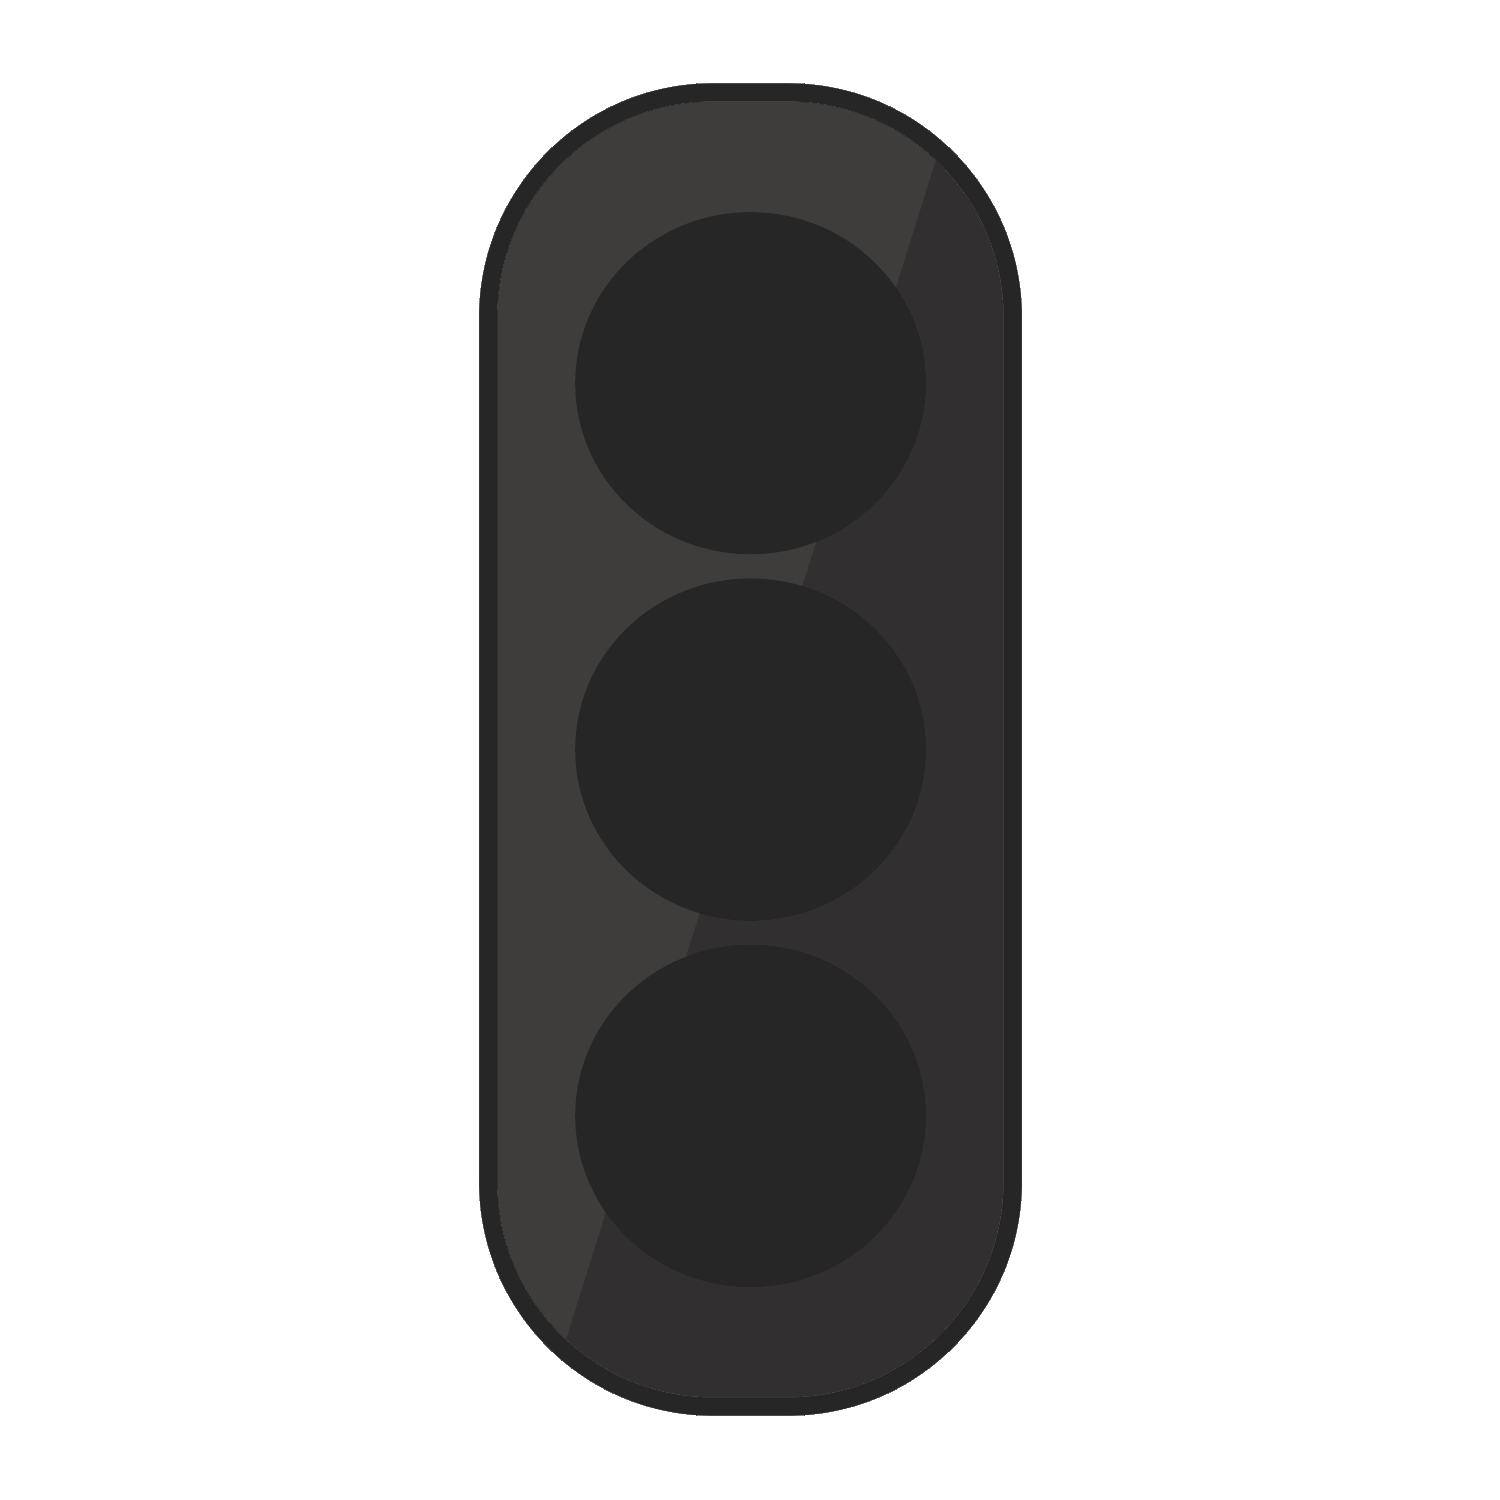
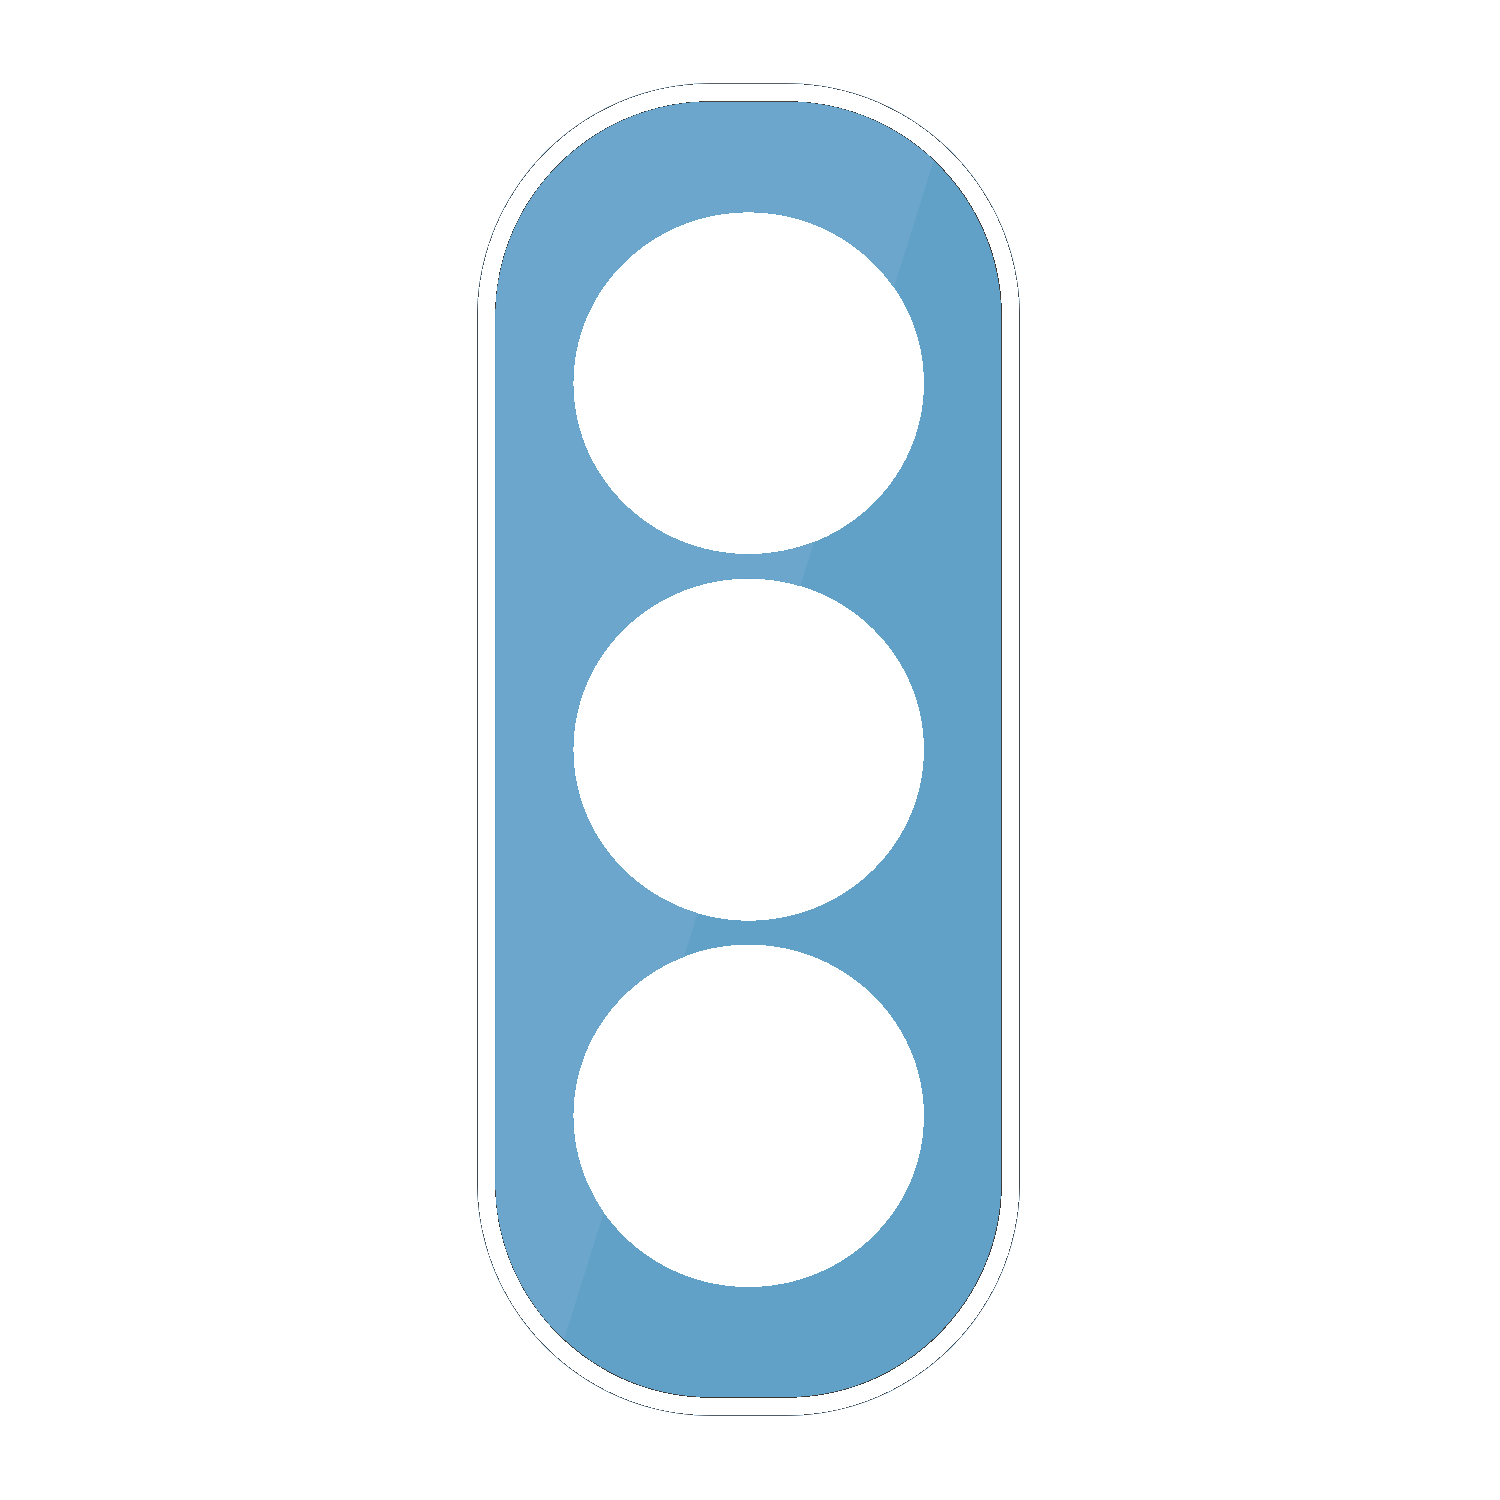
Updated Homescreen Light

diff --git a/mobileApp/components/styles.js b/mobileApp/components/styles.js
@@ -11,7 +11,7 @@ var darktheme = false;
     Traffic light variables; based around the dimensions of the encompassing window. 
     In order to make the traffic light bigger/smaller, make the modifier value larger or smaller.
 */
-const trafficLightModifier = 0.9;
+const trafficLightModifier = 1.0;
 const trafficLightHeight =
     Dimensions.get("window").height * trafficLightModifier;
 const trafficLightWidth = Dimensions.get("window").width * trafficLightModifier;

diff --git a/mobileApp/screens/HomeScreen.js b/mobileApp/screens/HomeScreen.js
@@ -74,7 +74,7 @@ const tlModifierMarginSecondary = 0.018;*/
 
 const screenWidth = Dimensions.get("window").width;
 const screenHeight = Dimensions.get("window").height;
-const tlModifierWidth = screenWidth * 0.000645;
+const tlModifierWidth = screenWidth * 0.000648;
 const tlModifierHeight = screenHeight * 0.00021249;
 const tlModifierMarginPrimary = screenHeight * 0.0001455;
 const tlModifierMarginSecondary = screenHeight * 0.0000285;
